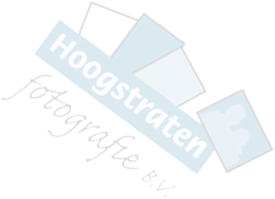
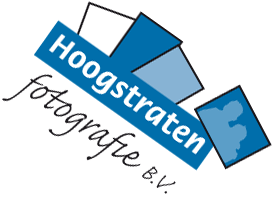
Watermark

diff --git a/src/Model/Table/PhotosTable.php b/src/Model/Table/PhotosTable.php
@@ -247,7 +247,8 @@ class PhotosTable extends BaseTable
         // calculate the position of the watermark
         $x = ($imageWidth - $watermarkWidth) / 2;
         $y = ($imageHeight - $watermarkHeight) / 2;
-//        $watermark->setImageOpacity(0.2);
+        //keep transparantcy of image
+        $watermark->evaluateImage(\Imagick::EVALUATE_MULTIPLY, 0.5, \Imagick::CHANNEL_ALPHA);
         $image->compositeImage($watermark, \imagick::COMPOSITE_OVER, $x, $y);
         return $image;
     }
